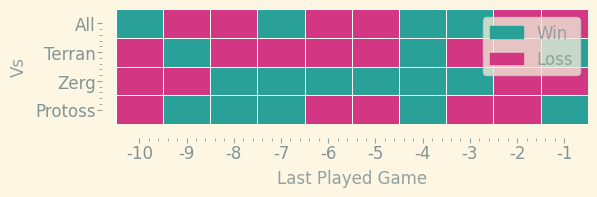
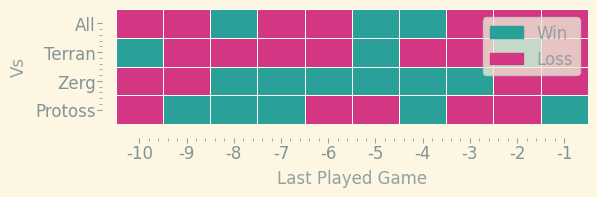
running on push

Changed region(s): [[0.5729, 0.0305, 0.995, 0.3655], [0.1809, 0.0305, 0.5126, 0.3655]]

diff --git a/docs/index.md b/docs/index.md
@@ -18,11 +18,11 @@ layout: home
   <tbody>
     <tr>
       <td>Matches Played</td>
-      <td>1389</td>
+      <td>1390</td>
     </tr>
     <tr>
       <td>MMR Gained</td>
-      <td>12900</td>
+      <td>12913</td>
     </tr>
     <tr>
       <td>MMR lost</td>
@@ -115,7 +115,7 @@ layout: home
 | Race    |   Wins |   Losses |   Total |   Win Rate (%) |   MMR Gained |   MMR Lost |
 |:--------|-------:|---------:|--------:|---------------:|-------------:|-----------:|
 | Protoss |    240 |      323 |     563 |        42.6288 |         4348 |       5426 |
-| Terran  |    146 |      194 |     340 |        42.9412 |         3663 |       2764 |
+| Terran  |    147 |      194 |     341 |        43.1085 |         3663 |       2764 |
 | Zerg    |    269 |      204 |     473 |        56.871  |         4486 |       4342 |
 
 ![Games by Race](./assets/gm_hist.png)
